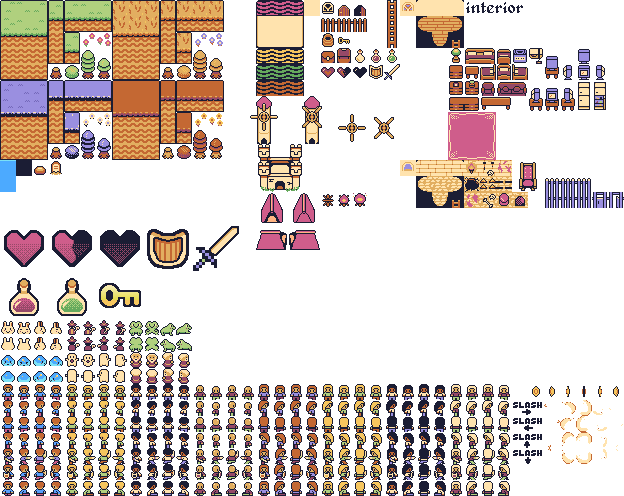
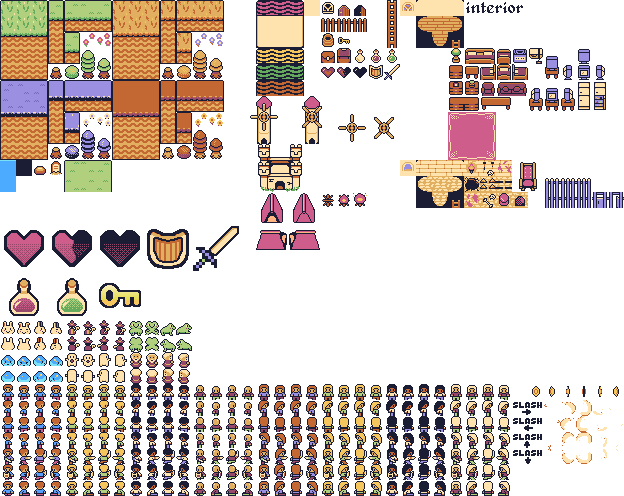
08. Started coding slime AI, adding original asset pack, and update topdownasset.png.

Changed region(s): [[0.0913, 0.3024, 0.1827, 0.3931], [0.0, 0.0, 0.0913, 0.0605]]

diff --git a/zelda/src/entities/slime.js b/zelda/src/entities/slime.js
@@ -1,3 +1,5 @@
+import { playAnimIfNotPlaying } from "../utils.js";
+
 export function generateSlimeComponents(k, pos) {
   return [
     k.sprite("assets", { frame: 858 }),
@@ -5,6 +7,114 @@ export function generateSlimeComponents(k, pos) {
     k.body(),
     k.pos(pos),
     k.offscreen(),
-    {},
+    k.timer(),
+    k.state("idle", ["idle", "left", "right", "up", "down"]),
+    {
+      speed: 50,
+    },
   ];
+}
+
+export function setSlimeAI(k, slime) {
+  slime.onStateEnter("idle", (previousState) => {
+    slime.stop();
+    slime.wait(2, () => {
+      if (previousState === "left") {
+        slime.enterState("right");
+        return;
+      }
+
+      if (previousState === "up") {
+        slime.enterState("down");
+        return;
+      }
+
+      if (previousState === "right") {
+        slime.enterState("up");
+        return;
+      }
+
+      slime.enterState("left");
+    });
+  });
+
+  slime.onStateEnter("left", async () => {
+    slime.flipX = true;
+    playAnimIfNotPlaying(slime, "slime-side");
+
+    let stop = false;
+    const movementUdate = k.onUpdate(() => {
+      if (stop) {
+        movementUdate.cancel();
+        return;
+      }
+
+      slime.move(-slime.speed, 0);
+    });
+
+    slime.wait(3, () => {
+      stop = true;
+      slime.enterState("idle", "left");
+    });
+  });
+
+  slime.onStateEnter("right", async () => {
+    slime.flipX = false;
+    playAnimIfNotPlaying(slime, "slime-side");
+
+    let stop = false;
+    const movementUdate = k.onUpdate(() => {
+      if (stop) {
+        movementUdate.cancel();
+        return;
+      }
+
+      slime.move(slime.speed, 0);
+    });
+
+    slime.wait(3, () => {
+      stop = true;
+      slime.enterState("idle", "right");
+    });
+  });
+
+  slime.onStateEnter("up", async () => {
+    slime.flipX = false;
+    playAnimIfNotPlaying(slime, "slime-up");
+
+    let stop = false;
+    const movementUdate = k.onUpdate(() => {
+      if (stop) {
+        movementUdate.cancel();
+        return;
+      }
+
+      slime.move(0, -slime.speed);
+    });
+
+    slime.wait(3, () => {
+      stop = true;
+      slime.enterState("idle", "up");
+    });
+  });
+
+  slime.onStateEnter("down", async () => {
+    slime.flipX = false;
+    playAnimIfNotPlaying(slime, "slime-down");
+
+    let stop = false;
+    const movementUdate = k.onUpdate(() => {
+      if (stop) {
+        movementUdate.cancel();
+        return;
+      }
+
+      slime.move(0, slime.speed);
+    });
+
+    slime.wait(3, () => {
+      stop = true;
+      slime.enterState("idle", "down");
+    });
+  });
 }

diff --git a/zelda/src/main.js b/zelda/src/main.js
@@ -1,7 +1,6 @@
 import k from "./kaboomContext.js";
 import endGame from "./scenes/endGame.js";
 import gameOver from "./scenes/gameOver.js";
-import menu from "./scenes/menu.js";
 import world from "./scenes/world.js";
 import house from "./scenes/house.js";
 
@@ -27,11 +26,16 @@ k.loadSprite("assets", "./assets/topdownasset.png", {
       to: 1017,
       loop: true,
     },
+    "slime-idle-down": 858,
+    "slime-down": { from: 858, to: 859, loop: true },
+    "slime-idle-side": 860,
+    "slime-side": { from: 860, to: 861, loop: true },
+    "slime-idle-up": 897,
+    "slime-up": { from: 897, to: 898, loop: true },
   },
 });
 
 const scenes = {
-  menu,
   world,
   house,
   gameOver,

diff --git a/zelda/src/scenes/world.js b/zelda/src/scenes/world.js
@@ -2,12 +2,12 @@ import {
   generatePlayerComponents,
   setPlayerControls,
 } from "../entities/player.js";
-import { generateSlimeComponents } from "../entities/slime.js";
+import { generateSlimeComponents, setSlimeAI } from "../entities/slime.js";
 
 function drawSea(k) {
   k.add([
     k.rect(k.canvas.width, k.canvas.height),
-    k.color(76, 170, 255),
+    k.color(76, 170, 255), //k.color(111, 106, 191), // k.color(76, 170, 255),
     k.fixed(),
   ]);
 }
@@ -87,4 +87,8 @@ export default async function world(k) {
   k.onUpdate(() => {
     k.camPos(entities.player.worldPos());
   });
+
+  for (const slime of entities.slimes) {
+    setSlimeAI(k, slime);
+  }
 }
